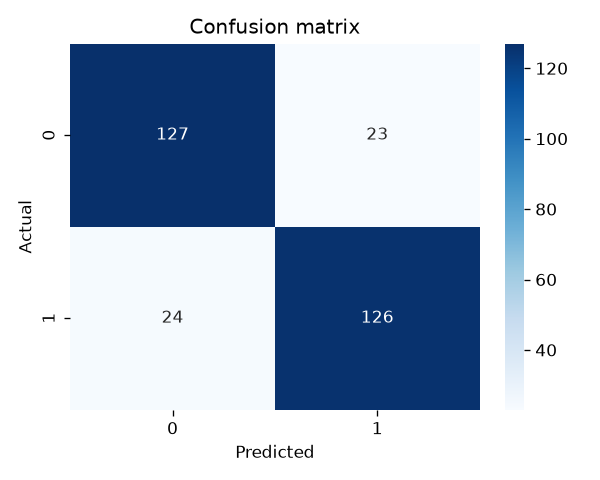
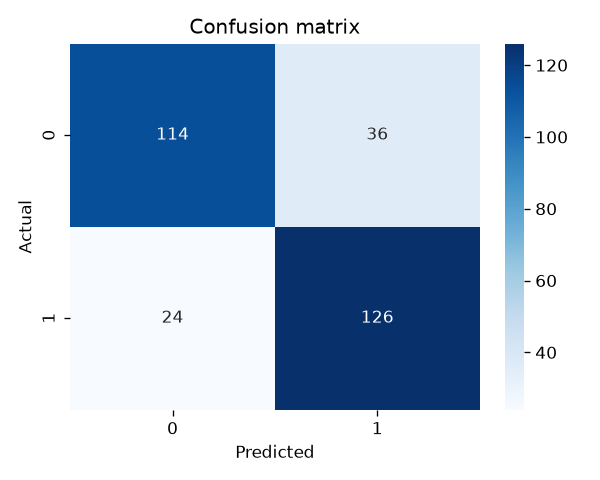
Update screenshots to promote_challenger after 6% F1 lift.

diff --git a/README.md b/README.md
@@ -1,12 +1,10 @@
 # MLflow homework screenshots (ecommerce-start)
 
-Живой UI: Docker `ghcr.io/mlflow/mlflow:v3.12.0` на kvm8, порт **5002**.
+Живой UI: Docker MLflow на kvm8, порт **5002**.
 
-- `01-runs.png` — эксперимент `ecommerce-purchase`: `gb_lr0.05`, `gb_lr0.1` (champion), `gb_lr0.2`, parent `GridSearch`
-- `02-registry.png` — Model Registry `ecommerce-purchase-clf`
-- `03-agent-tags.png` — теги агента: `keep_champion`, F1 0.8428 → 0.8696, lift 3.17% < 5%
-- `04-gridsearch.png` — nested Optuna: child runs `trial_0`…`trial_7`, `best_f1_score=0.8696`
-- `05-confusion-matrix.png` — confusion matrix лучшего run Task 1 (`lr=0.1`)
-- `05b-cm-lr0.05.png`, `05c-cm-lr0.2.png` — остальные матрицы Task 1
+- `01-runs.png` — эксперимент `ecommerce-purchase` (Task 1 + GridSearch)
+- `02-registry.png` / `03-agent-tags.png` — v4 `@champion` + `@challenger`, `agent_decision=promote_challenger`, lift **6.01%** (>5%)
+- `04-gridsearch.png` — nested Optuna `trial_0…7`, `best_f1_score=0.8562`
+- `05-confusion-matrix.png` — confusion matrix Task 1 (лучший baseline `lr=0.25`)
 
 Код: https://github.com/Leonid328/ecommerce-mlflow-hw
